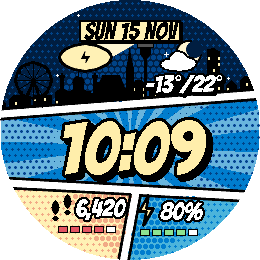
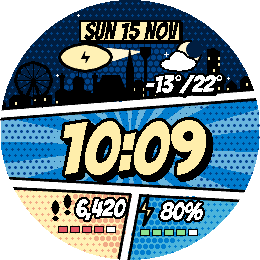
Beam the hero signal straight out of the Donauturm
Drop the grey searchlight housing on top of the tower: it looked odd.
The beam now starts at the Donauturm's head and is drawn behind the
black skyline, so it reads as coming out of the tower itself.

Claude-Session: https://claude.ai/code/session_018Kv7eDqzGjxn9kZXyPpq7g

Changed region(s): [[0.3692, 0.1538, 0.6154, 0.2462]]

diff --git a/src/c/scene.c b/src/c/scene.c
@@ -520,11 +520,11 @@ NOINLINE static void skyline(GContext *ctx, const Layout *l, const SkyPalette *p
   dc_tower(ctx, l, &a, c, pal, night);
 }
 
-/* The hero signal's searchlight sits on top of the Donauturm. */
+/* The hero signal beams out of the Donauturm's head (the beam is drawn before
+ * the skyline, so the black tower sits in front of where it starts). */
 static GPoint signal_lamp(const Layout *l) {
   Anchor a = anchor_at(l, PM(l->lm_x[LM_DONAUTURM], l->w));
-  GPoint top = ap(&a, 0, DONAUTURM_TOP);
-  return GPoint(top.x, top.y - (l->w / 40 + 2));
+  return ap(&a, 0, DONAUTURM_TOP - 3);
 }
 
 static int32_t isqrt32(int32_t v) {
@@ -552,21 +552,6 @@ NOINLINE static void signal_beam(GContext *ctx, const Layout *l) {
   beam.p[2] = GPoint(e.x + px, e.y + py);
   beam.p[3] = GPoint(e.x - px, e.y - py);
   poly_fill(ctx, &beam, &l->sky, GColorPastelYellow);
-}
-
-NOINLINE static void signal_lamp_draw(GContext *ctx, const Layout *l, bool on) {
-  GPoint p = signal_lamp(l);
-  int r = l->w / 40 + 1;
-  static Poly lamp;
-  lamp.n = 4;
-  lamp.p[0] = GPoint(p.x - r - 1, p.y + r + 1);
-  lamp.p[1] = GPoint(p.x + r + 1, p.y + r + 1);
-  lamp.p[2] = GPoint(p.x + r, p.y - r);
-  lamp.p[3] = GPoint(p.x - r, p.y - r);
-  poly_fill(ctx, &lamp, NULL, GColorDarkGray);
-  poly_outline(ctx, &lamp, GColorBlack, 1);
-  graphics_context_set_fill_color(ctx, on ? GColorYellow : GColorBlack);
-  graphics_fill_rect(ctx, GRect(p.x - r + 1, p.y - r + 1, 2 * r - 2, 2), 0, GCornerNone);
 }
 
 NOINLINE static void emblem(GContext *ctx, const Layout *l, bool on) {
@@ -679,7 +664,6 @@ NOINLINE static void draw_sky(GContext *ctx, const Layout *l, const Scene *s) {
   if (s->connected) signal_beam(ctx, l);
   weather_icon(ctx, l, s, pal.sky);
   skyline(ctx, l, &pal, !s->is_day);
-  signal_lamp_draw(ctx, l, s->connected);
   emblem(ctx, l, s->connected);
   temperature(ctx, l, s);
 }

diff --git a/README.md b/README.md
@@ -3,7 +3,7 @@
 A superhero comic watchface for Pebble. The time is lettered big in a comic
 panel full of speed lines and halftone dots. Above it, a hero signal shines over
 the Vienna skyline (Riesenrad, Karlskirche, Stephansdom, DC Tower, with the
-searchlight on top of the Donauturm) while your phone is connected. **When the connection drops, the
+signal beaming out of the Donauturm) while your phone is connected. **When the connection drops, the
 signal cuts out with a "KRZZT!" and the watch vibrates**, so you can't walk away
 from your phone without noticing.
 
